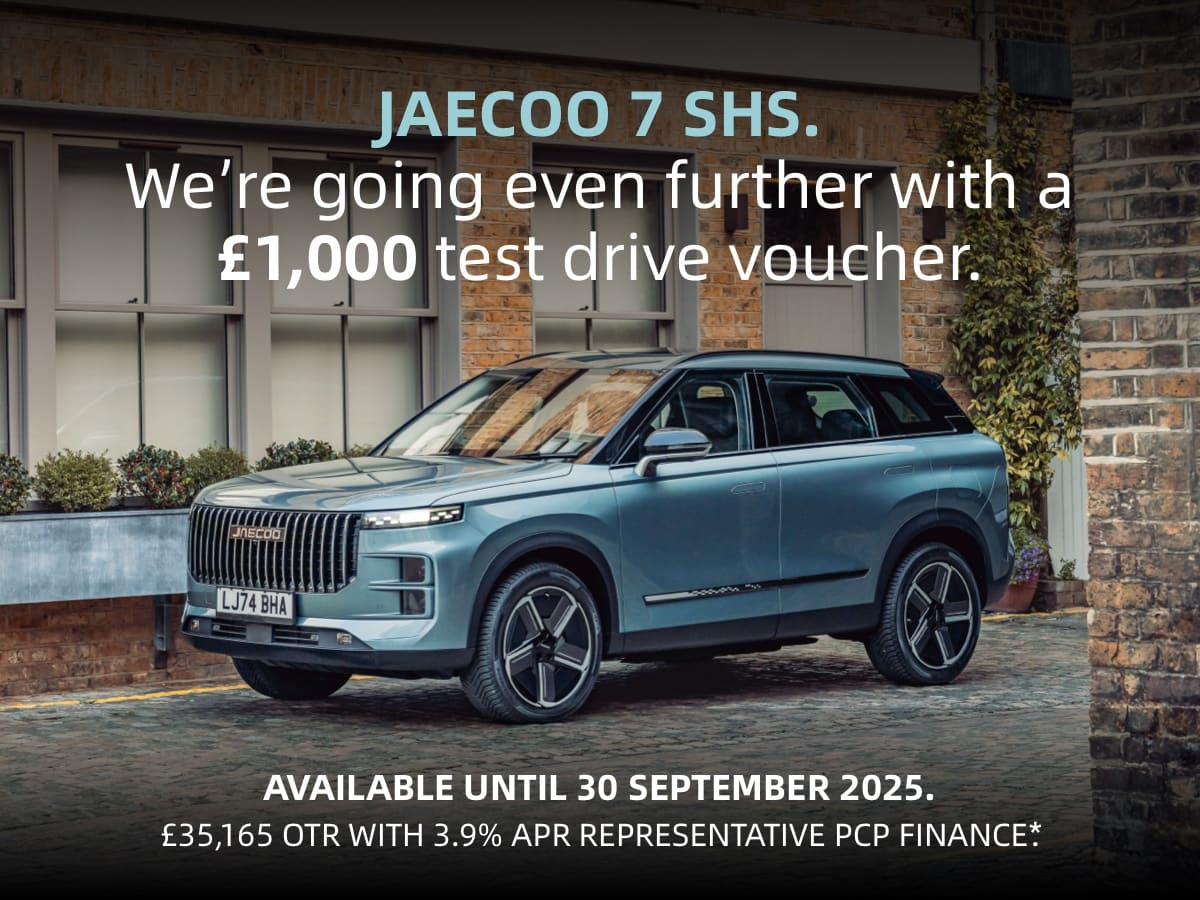
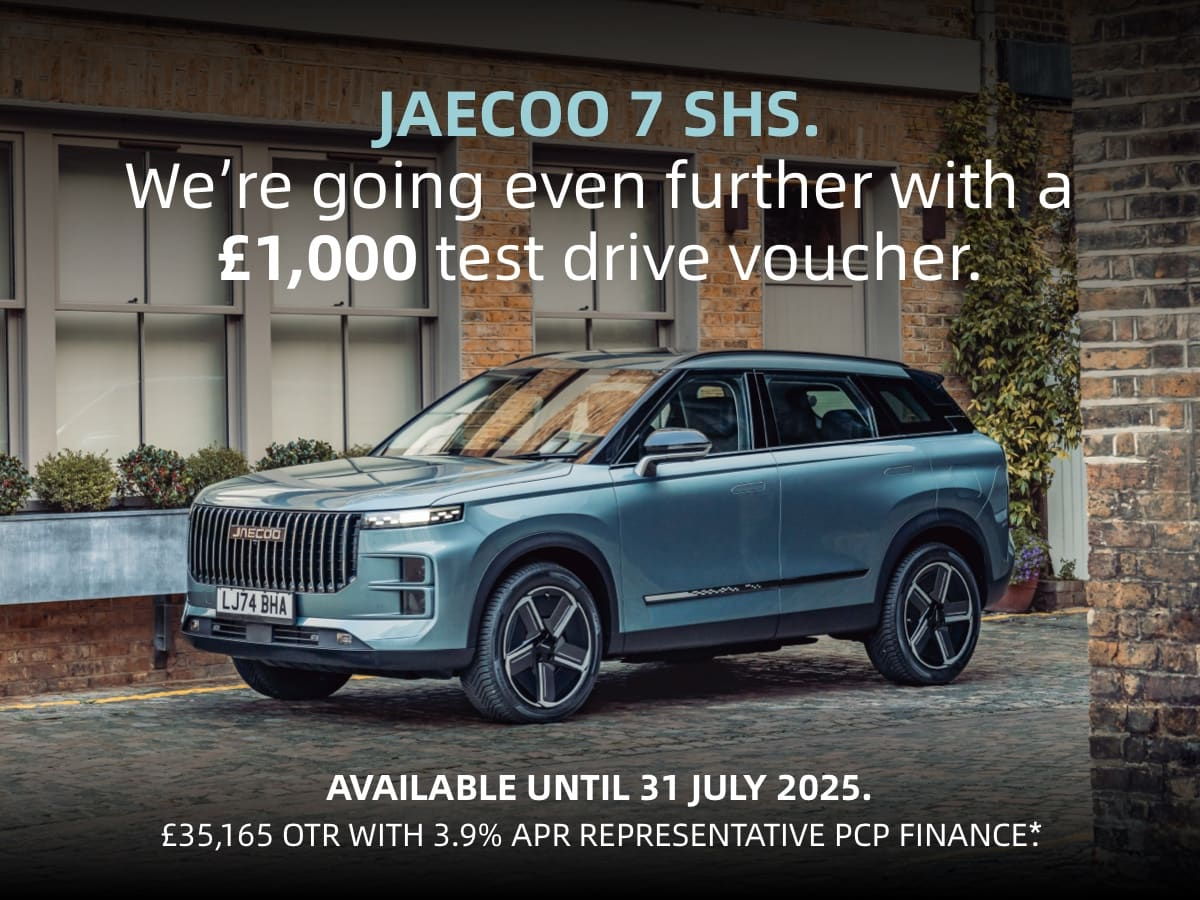
date change

Changed region(s): [[0.2158, 0.84, 0.7708, 0.9022]]

diff --git a/complete/omoda/JAECOO 7 SHS - Q3 Offer Email - July/index.html b/complete/omoda/JAECOO 7 SHS - Q3 Offer Email - July/index.html
@@ -577,7 +577,7 @@
                               <td style="padding: 40px 30px 40px" align="">
                                 <p style="font-family:Calibri, Helvetica, Arial, sans-serif; font-size:16px; line-height: 22px; color:#000000; margin: 0 0 16px" class="para hauto">Hello {Name},</p>
                                 <p style="font-family: Calibri, Helvetica, Arial, sans-serif; font-size:15px; line-height: 22px; color:#000000; margin: 0 0 16px" class="para hauto">
-                                  Get ready to go further, with <strong>£1,000 towards your new JAECOO 7 SHS<sup style="font-size: 12px; line-height: 0; vertical-align: 3px">†</sup></strong> when you take a test drive and buy before 30th September&nbsp;2025.
+                                  Get ready to go further, with <strong>£1,000 towards your new JAECOO 7 SHS<sup style="font-size: 12px; line-height: 0; vertical-align: 3px">†</sup></strong> when you take a test drive and buy before 31st July&nbsp;2025.
                                 </p>
                                 <p style="font-family: Calibri, Helvetica, Arial, sans-serif; font-size:15px; line-height: 22px; color:#000000; margin: 0 0 16px" class="para hauto">
                                   With its refined, intelligent drive and more than 700 miles of WLTP combined range, the JAECOO 7 SHS combines petrol and electric power through our next&#8209;generation Super Hybrid System (SHS) to deliver the efficiency you want with the capability you&nbsp;need.
@@ -1103,7 +1103,7 @@
                                 <hr style="border: none; height: 1px; background-color: white; color: white;Margin: 0 0 20px"/>
                                 <p style="font-family: Calibri, Helvetica, Arial, sans-serif; font-size:10px; color:#ffffff; mso-line-height-rule:exactly; line-height:16px; font-weight: normal;margin: 0 0 10px" class="para hauto">
                                   <strong>*Terms and Conditions.</strong>
-                                  <br>Representative 3.90% APR, on JAECOO SHS 1.5T AWD Luxury Representative Example based on 8,000 miles per annum. Credit available subject to status. UK residents 18+. Guarantees may be required. This oﬀer is available to Retail customers only and is not available in conjunction with any other oﬀers unless specified. Images are shown for illustration purposes. With Personal Contract Purchase, once you have paid all of your regular monthly repayments you can either 1) Pay the Optional Final Repayment and own the car. 2) Part exchange the car for a new one (subject to settlement of your existing agreement, new agreements are subject to status). 3) Return the car to Creation without paying the optional final repayment. Providing you’ve not exceeded the maximum agreed mileage and the car is in good condition (fair wear and tear accepted) you will have nothing further to pay. If the vehicle has exceeded the maximum agreed mileage then a charge of 12.0p+ VAT per excess mile applies. Orders must be placed and accepted by 30th September 2025. Oﬀers may be varied or withdrawn at any time.</p>
+                                  <br>Representative 3.90% APR, on JAECOO SHS 1.5T AWD Luxury Representative Example based on 8,000 miles per annum. Credit available subject to status. UK residents 18+. Guarantees may be required. This oﬀer is available to Retail customers only and is not available in conjunction with any other oﬀers unless specified. Images are shown for illustration purposes. With Personal Contract Purchase, once you have paid all of your regular monthly repayments you can either 1) Pay the Optional Final Repayment and own the car. 2) Part exchange the car for a new one (subject to settlement of your existing agreement, new agreements are subject to status). 3) Return the car to Creation without paying the optional final repayment. Providing you’ve not exceeded the maximum agreed mileage and the car is in good condition (fair wear and tear accepted) you will have nothing further to pay. If the vehicle has exceeded the maximum agreed mileage then a charge of 12.0p+ VAT per excess mile applies. Orders must be placed and accepted by 31st July 2025. Oﬀers may be varied or withdrawn at any time.</p>
                                 <p style="font-family: Calibri, Helvetica, Arial, sans-serif; font-size:10px; color:#ffffff; mso-line-height-rule:exactly; line-height:16px; font-weight: normal;margin: 0 0 10px" class="para hauto">
                                   <span style="color: magenta">{Insert your financial permissions here. This includes but is not limited to your credit broker statement and additional small print.<br>
 
@@ -1112,7 +1112,7 @@
                               {Full legal entity name plus any trading name(s)} is a credit broker, not a lender {post code}. Finance provided by ** Finance Provider **, ** Finance Providers Postcode**. Finance subject to status, 18+ Ts &amp; Cs apply.}</span>
                                 </p>
                                 <p style="font-family: Calibri, Helvetica, Arial, sans-serif; font-size:10px; color:#ffffff; mso-line-height-rule:exactly; line-height:16px; font-weight: normal;margin: 0 0 30px" class="para hauto">
-                                  † Offer valid for private retail only upon taking a test drive. Not available to Fleet customer or Motability customers. The £1000 (incl. VAT) is redeemable against the purchase of a new JAECOO 7 SHS ordered and registered between 1 July to 30 September 2025. Offer can be used in conjunction with the 3.9% APR finance offer. Available at participating retailers only. This offer cannot be used in conjunction with any other promotions or discounts. For full details, please contact your local OMODA &amp; JAECOO dealer. OMODA &amp; JAECOO UK Limited reserves the right to amend or withdraw this offer at any time without prior&nbsp;notice.</p>
+                                  † Offer valid for private retail only upon taking a test drive. Not available to Fleet customer or Motability customers. The £1000 (incl. VAT) is redeemable against the purchase of a new JAECOO 7 SHS ordered and registered between 1 July to 31 July 2025. Offer can be used in conjunction with the 3.9% APR finance offer. Available at participating retailers only. This offer cannot be used in conjunction with any other promotions or discounts. For full details, please contact your local OMODA &amp; JAECOO dealer. OMODA &amp; JAECOO UK Limited reserves the right to amend or withdraw this offer at any time without prior&nbsp;notice.</p>
                                 
                               </td>
                             </tr>
